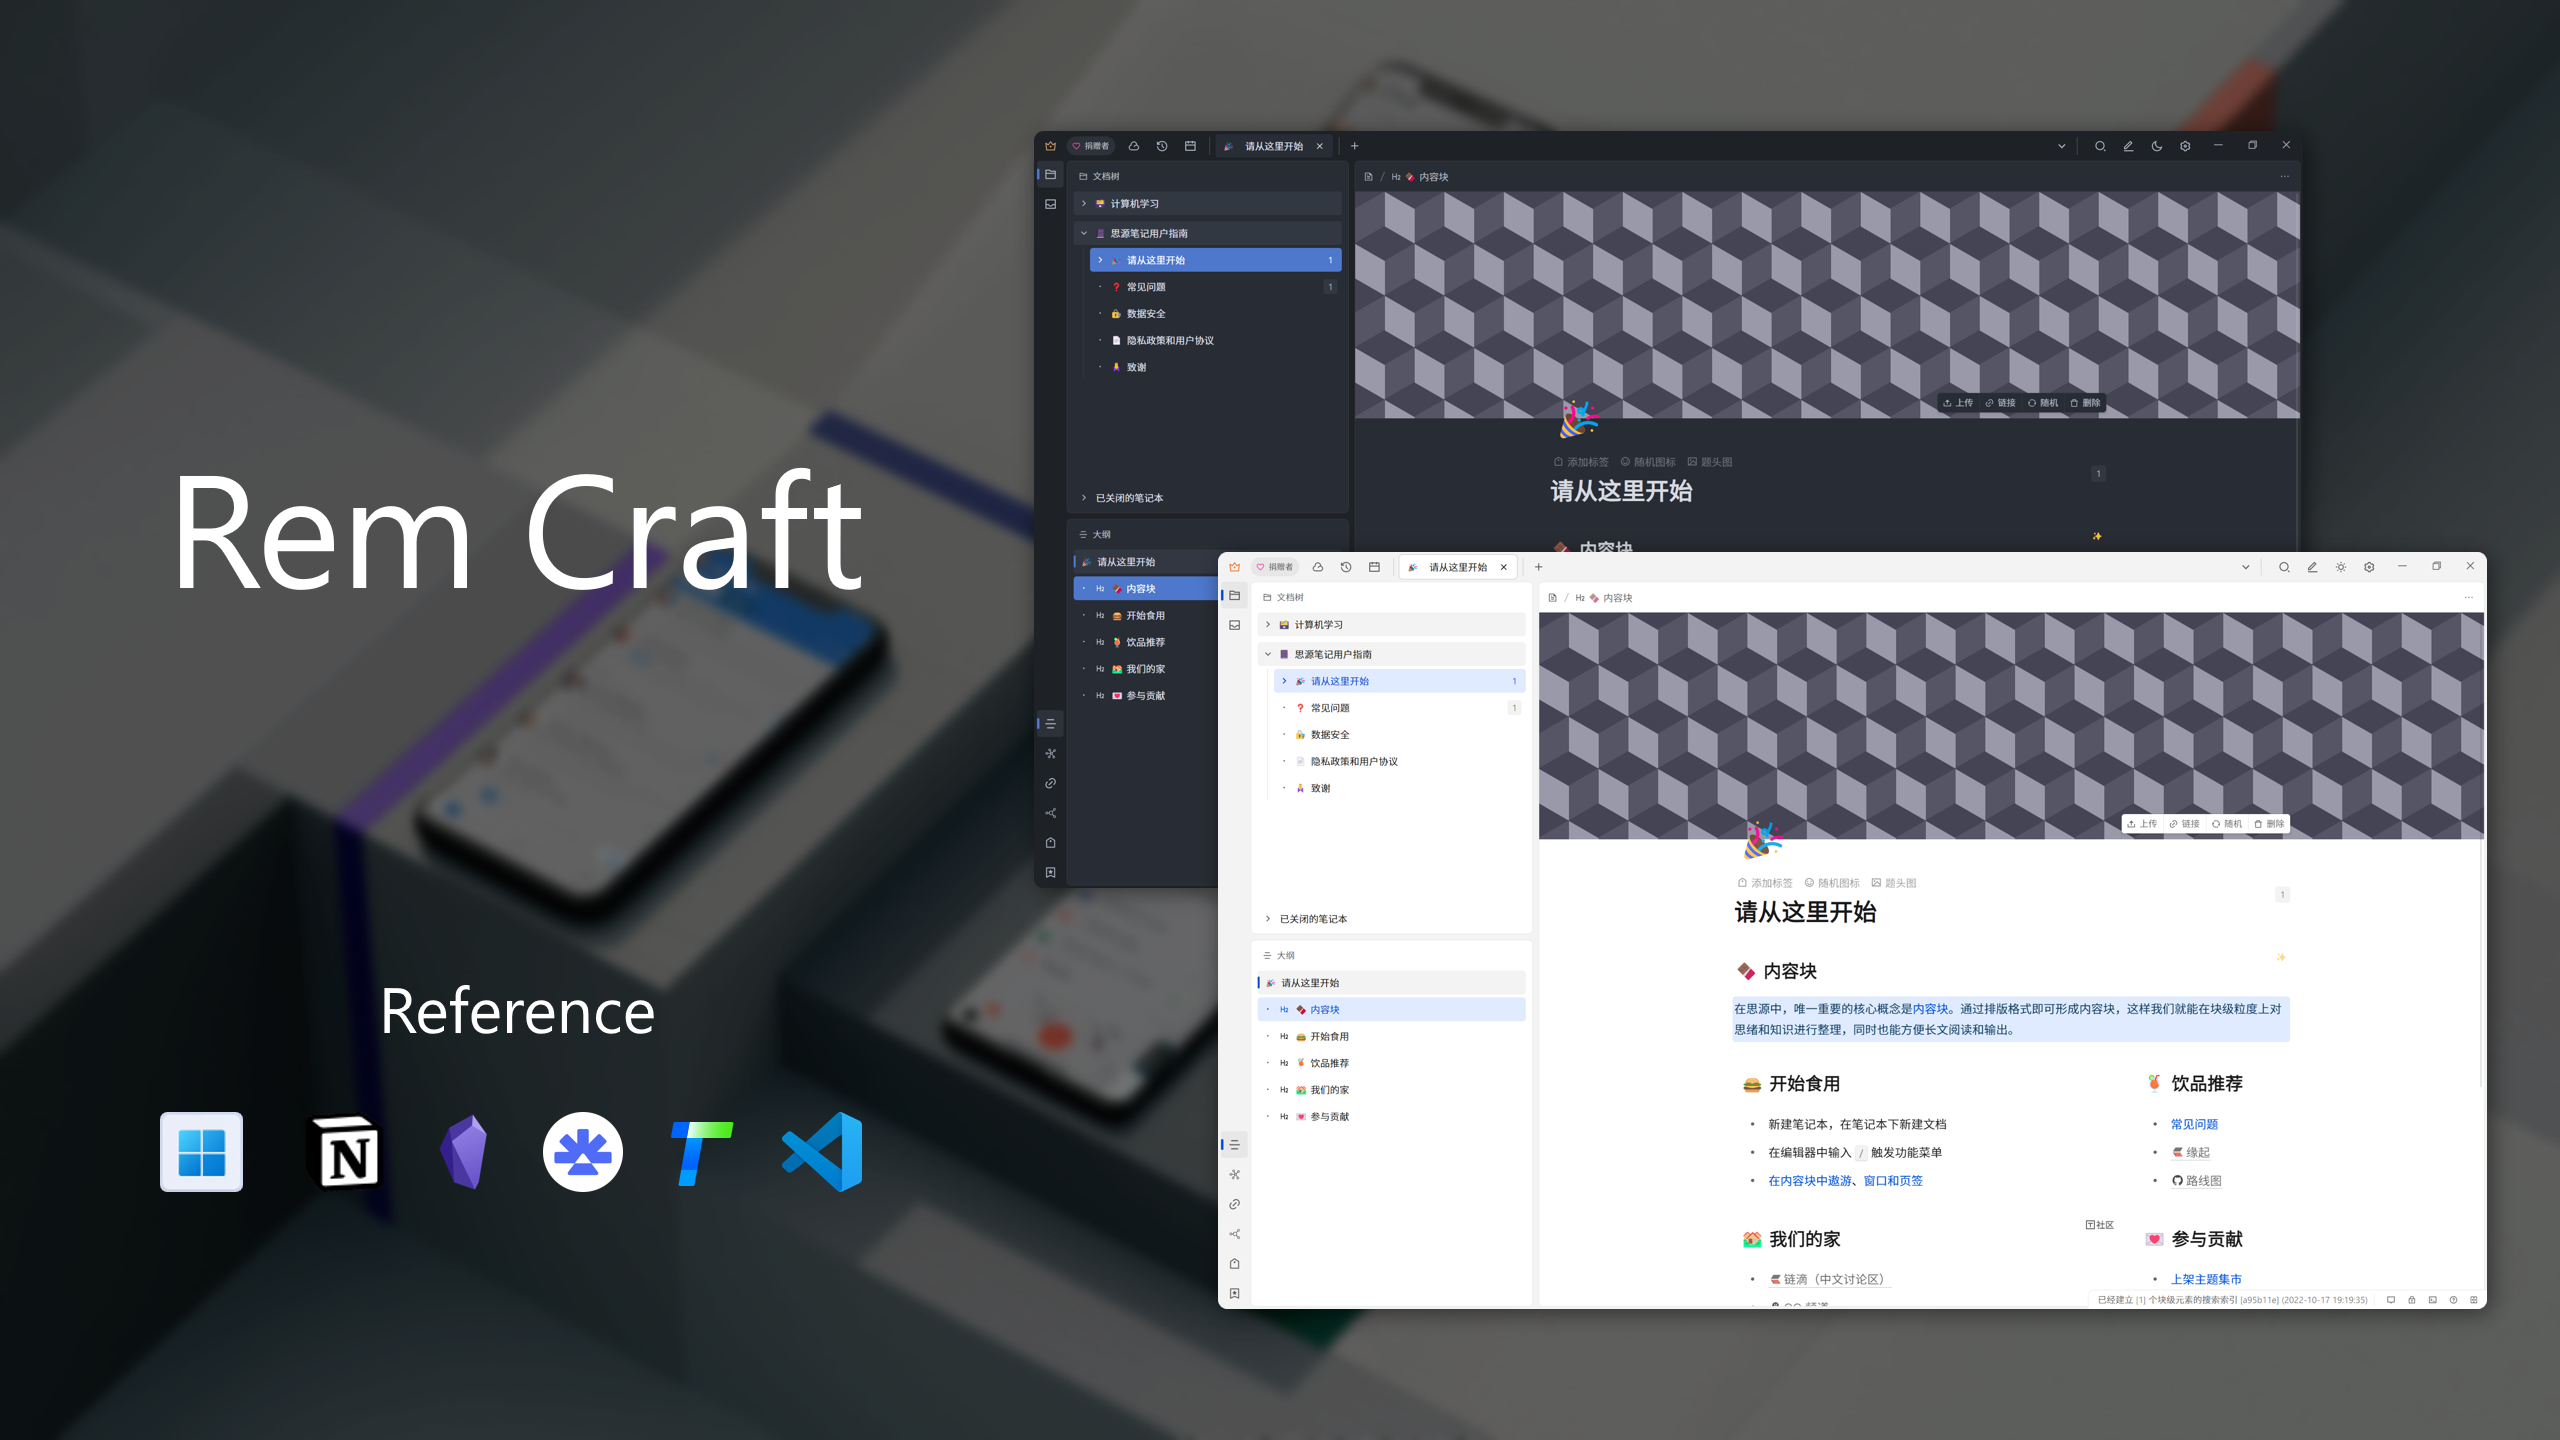
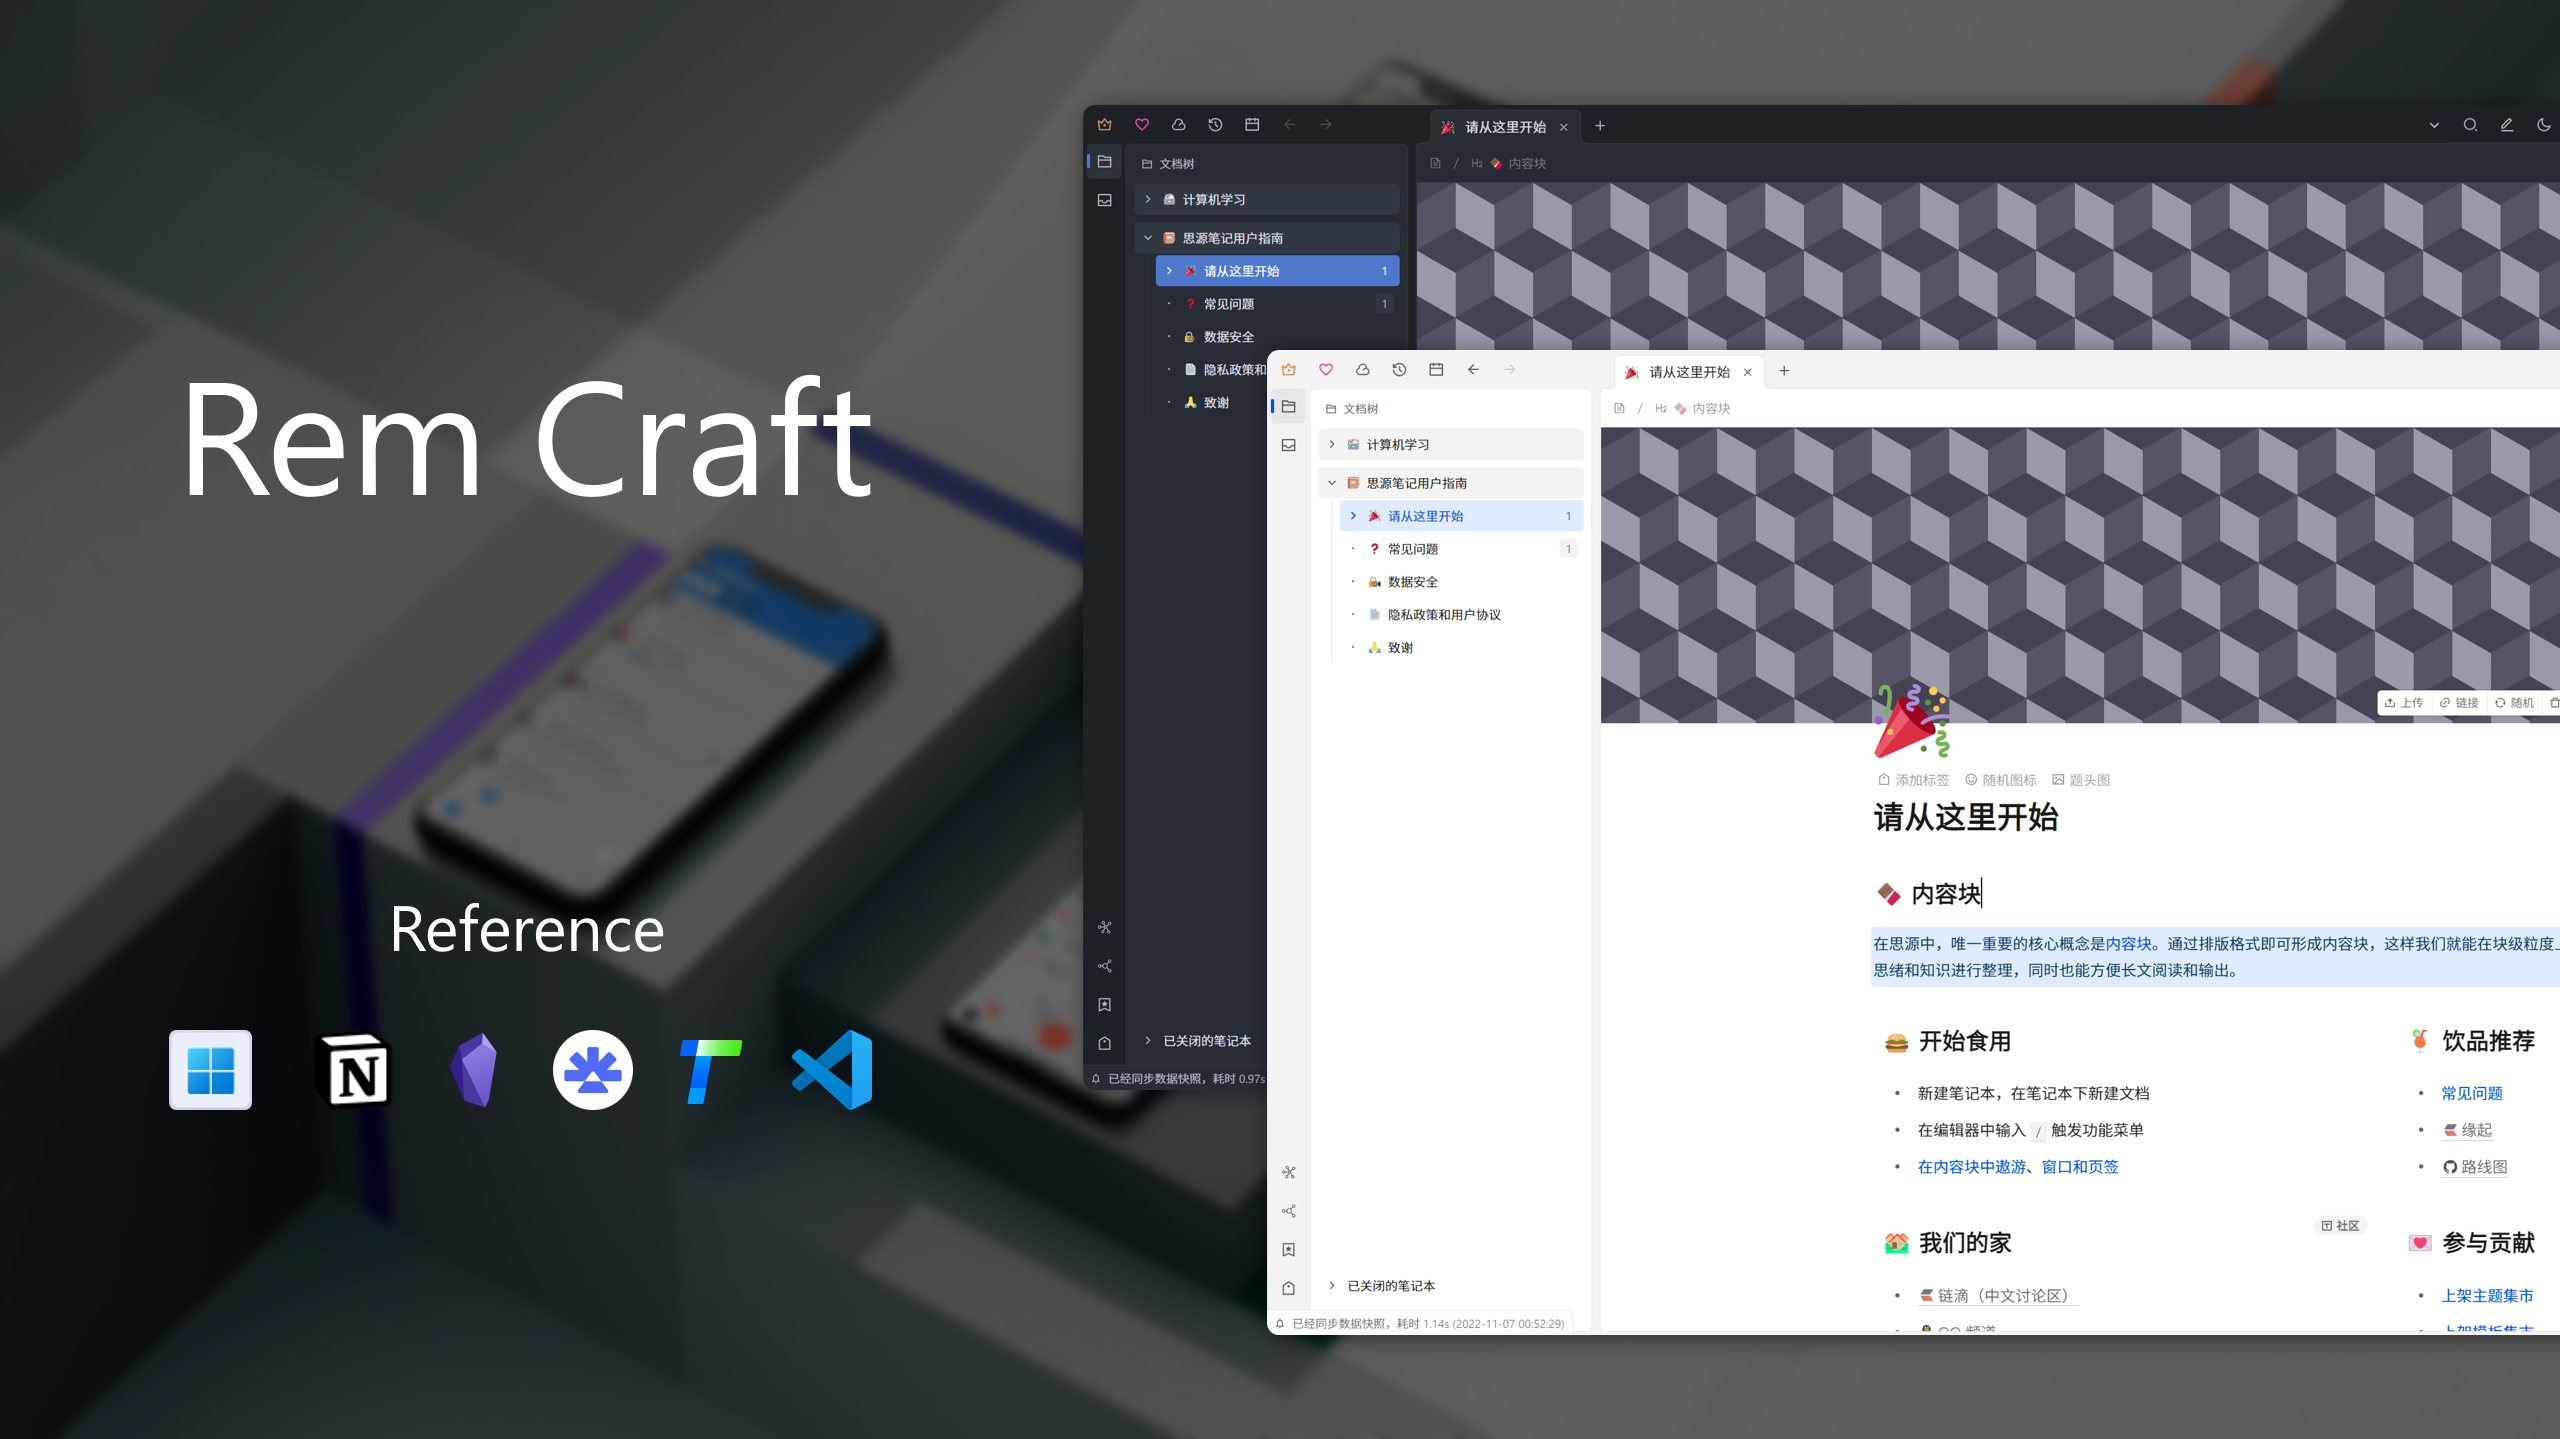
docs: :memo: 更新readme和preview.png，修改.versionrc

diff --git a/README.md b/README.md
@@ -1,27 +1,27 @@
 # Rem Craft
 
-![GitHub release (latest by date including pre-releases)](https://img.shields.io/github/release/svchord/Rem-Craft?include_prereleases)
-![GitHub](https://img.shields.io/github/license/svchord/Rem-Craft)
-![GitHub last commit](https://img.shields.io/github/last-commit/svchord/Rem-Craft)
-![GitHub repo size](https://img.shields.io/github/repo-size/svchord/Rem-Craft)
+![GitHub release (latest by date including pre-releases)](https://img.shields.io/github/release/svchord/Rem-Craft?include_prereleases)  
+![GitHub](https://img.shields.io/github/license/svchord/Rem-Craft)  
+![GitHub last commit](https://img.shields.io/github/last-commit/svchord/Rem-Craft)  
+![GitHub repo size](https://img.shields.io/github/repo-size/svchord/Rem-Craft)  
 ![jsDelivr hits (GitHub)](https://img.shields.io/jsdelivr/gh/hy/svchord/Rem-Craft?label=hits)
 
 一款现代化、平面化设计的思源笔记主题
 
-<img width="1280" alt="preview" src="https://user-images.githubusercontent.com/61345763/196183604-5b2e7706-feb9-4cd7-aa73-f35c3c4a484a.png">
+<img width="1280" alt="preview" src="https://user-images.githubusercontent.com/61345763/200185990-01df147a-b54d-4ae2-a68d-f5739adfd64b.png">
 
 ## 使用说明
 
-1. 顶部页签栏仅支持横向分屏
-2. 顶栏除了按钮以外的区域都可以拖拽窗口
-3. 横向分屏三栏及以上时，顶部右侧页签栏会随着面板焦点的变化而改变（仅包括从左往右数第二个面板及其右侧面板），同时右侧页签栏的空白区域拖拽会有问题，因此不建议横向分屏三栏及以上
+1. 顶栏除了按钮以外的区域都可以拖拽窗口
+2. 打开边栏时，顶部页签栏有可能遮盖顶栏按钮，拖拽分割线即可解决
+3. 多次分屏后，页签栏有概率出现现实问题，重置外观即可解决
 4. 设置、搜索等大弹窗的关闭按钮被隐藏了，点击周围空白处即可关闭
 
 ## 参考样式
 
 以下是主要样式设计来源：
 
-- 参考了Windows 11的设计，修改了边栏、滑条、开关、输入框的样式
+- 参考了 Windows 11 的设计，修改了边栏、滑条、开关、输入框的样式
   
   ![windows 11](https://docs.microsoft.com/en-us/windows/apps/design/signature-experiences/images/color_light_controls_940.png)
 
@@ -31,13 +31,11 @@
 
 - Notion 的题头图、编辑器各类块
 
-- Obsidian 的顶栏和底部状态栏
+- Obsidian 的顶栏、页签栏和底部状态栏
 
 - Rem Note 的文档树
 
 - VS Code 的 One Dark Pro 配色
-
-- Microsoft Edge 的页签
 
 - Craft 的引述块
 
@@ -45,23 +43,25 @@
 
 ### 短期计划
 
-1. mini-plugins：用户自定义使用css片段，完善css片段版本、作者及功能描述等信息，方便后期维护。
-2. themes：用户自定义主题风格和主题色，主题自带tdesign、semi-design及one-dark三种风格。
-3. Admonitions：也叫call-out，即各类定义好的引述模板。[（参考链接）](https://squidfunk.github.io/mkdocs-material/reference/admonitions/)
+1. mini-plugins：用户自定义使用 css 片段，完善 css 片段版本、作者及功能描述等信息，方便后期维护。
+2. themes：用户自定义主题风格和主题色，主题自带 tdesign、semi-design 及 one-dark 三种风格。
+3. Admonitions：也叫 call-out，即各类定义好的引述模板。[（参考链接）](https://squidfunk.github.io/mkdocs-material/reference/admonitions/)
 
 ### 长期计划
 
 1. 列表转导图等额外辅助功能
-2. 图片、pdf浏览界面美化
+2. 图片、pdf 浏览界面美化
 
 ## 参考与致谢
 
-| 功能          | 作者                                                                                         | 项目                                                                                                                                          | 说明              |
-| ----------- | ------------------------------------------------------------------------------------------ | ------------------------------------------------------------------------------------------------------------------------------------------- | --------------- |
-| 行内超链接自动展示图标 | [Achuan-2](https://github.com/Achuan-2)、[Zuoqiu-Yingyi](https://github.com/Zuoqiu-Yingyi/) | [Tsundoku Light](https://github.com/Achuan-2/siyuan-themes-tsundoku-light)、[Dark+](https://github.com/Zuoqiu-Yingyi/siyuan-theme-dark-plus) | 将两个主题的相同功能整合在一起 |
-| 明暗切换        | [Zuoqiu-Yingyi](https://github.com/Zuoqiu-Yingyi/)                                         | [Dark+](https://github.com/Zuoqiu-Yingyi/siyuan-theme-dark-plus)                                                                            | 参考部分theme.js    |
-| 斜杠快捷菜单分列显示  | [Zuoqiu-Yingyi](https://github.com/Zuoqiu-Yingyi/)、[royc01](https://github.com/royc01)     | [Dark+](https://github.com/Zuoqiu-Yingyi/siyuan-theme-dark-plus)、[notion-theme](https://github.com/royc01/notion-theme)                     | 将两个主题的相同功能整合在一起 |
-| 文档树辅助线      | [royc01](https://github.com/royc01)                                                        | [notion-theme](https://github.com/royc01/notion-theme)                                                                                      | 群聊中交流讨论提供思路     |
+| 功能               | 作者                                                                                         | 项目                                                                                                                                          | 说明              |
+| ---------------- | ------------------------------------------------------------------------------------------ | ------------------------------------------------------------------------------------------------------------------------------------------- | --------------- |
+| 行内超链接自动展示图标      | [Achuan-2](https://github.com/Achuan-2)、[Zuoqiu-Yingyi](https://github.com/Zuoqiu-Yingyi/) | [Tsundoku Light](https://github.com/Achuan-2/siyuan-themes-tsundoku-light)、[Dark+](https://github.com/Zuoqiu-Yingyi/siyuan-theme-dark-plus) | 将两个主题的相同功能整合在一起 |
+| 明暗切换             | [Zuoqiu-Yingyi](https://github.com/Zuoqiu-Yingyi/)                                         | [Dark+](https://github.com/Zuoqiu-Yingyi/siyuan-theme-dark-plus)                                                                            | 参考部分 theme.js   |
+| 斜杠快捷菜单分列显示       | [Zuoqiu-Yingyi](https://github.com/Zuoqiu-Yingyi/)、[royc01](https://github.com/royc01)     | [Dark+](https://github.com/Zuoqiu-Yingyi/siyuan-theme-dark-plus)、[notion-theme](https://github.com/royc01/notion-theme)                     | 将两个主题的相同功能整合在一起 |
+| 文档树辅助线           | [royc01](https://github.com/royc01)                                                        | [notion-theme](https://github.com/royc01/notion-theme)                                                                                      | 群聊中交流讨论提供思路     |
+| 顶部页签栏            | [royc01](https://github.com/royc01)                                                        | [notion-theme](https://github.com/royc01/notion-theme)                                                                                      | 顶栏提供思路          |
+| theme.js 写法和 api | [leolee9086](https://github.com/leolee9086)                                                | [noob](https://github.com/leolee9086/noob)                                                                                                  | 参考部分 theme.js   |
 
 ## 依赖项目
 
